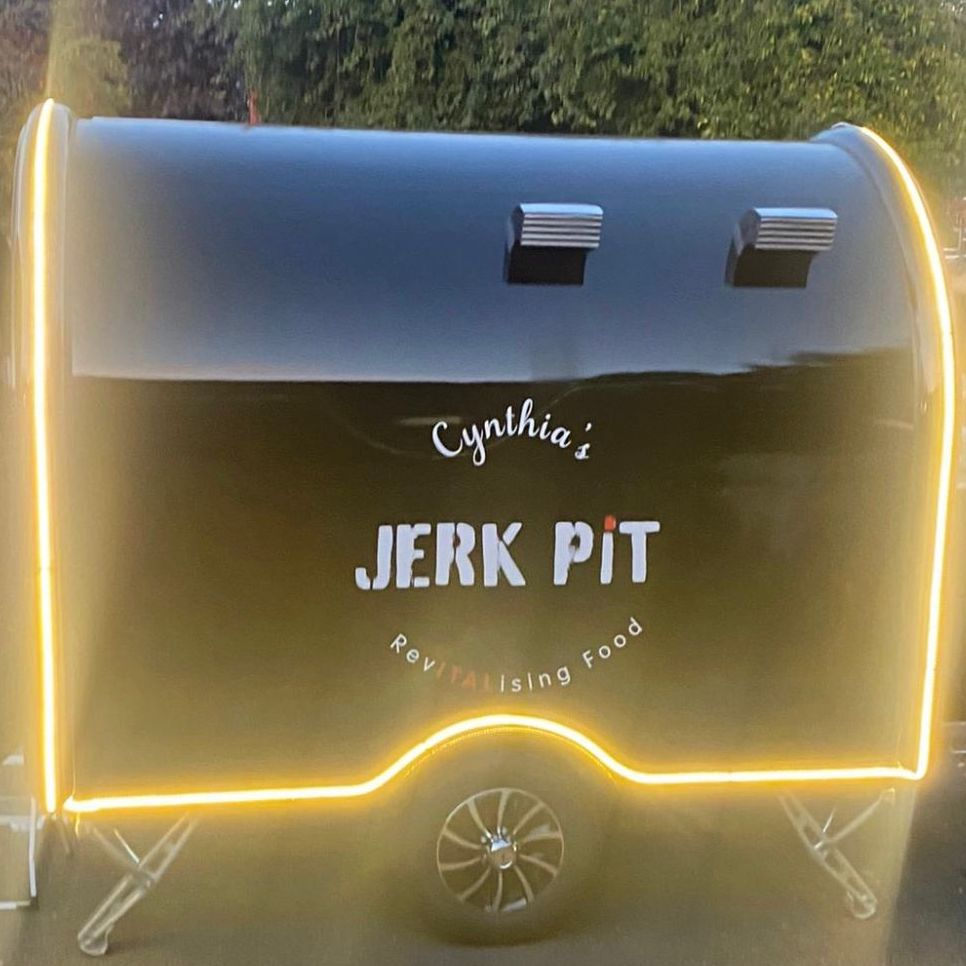
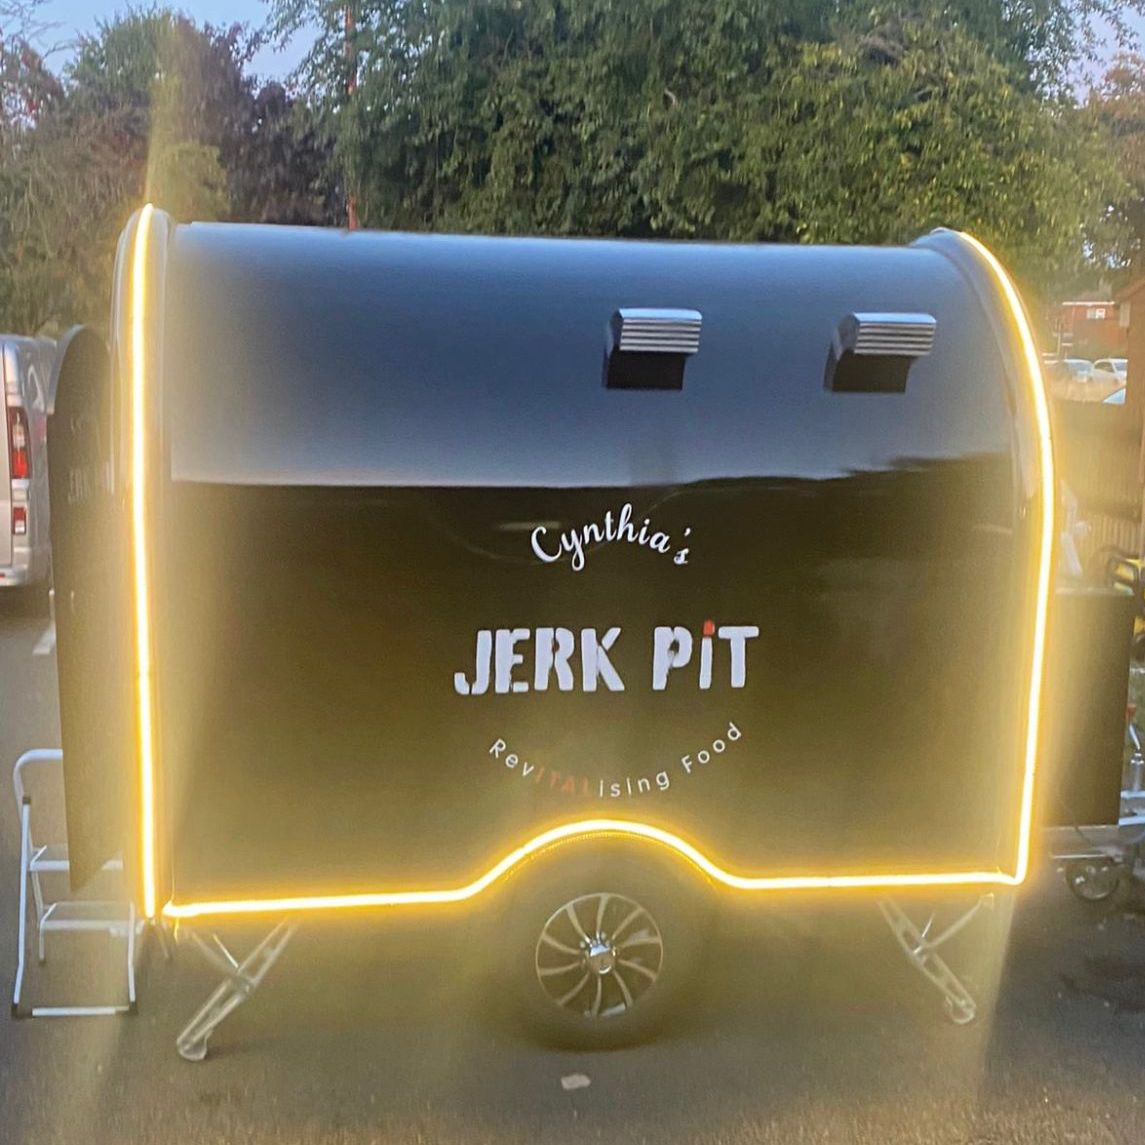
update homepage images

diff --git a/src/containers/Home.js b/src/containers/Home.js
@@ -11,7 +11,7 @@ import trailer1 from "../components/atoms/images/Trailer1.jpg";
 import staffHut from "../components/atoms/images/StaffHut.png";
 import trailerSt from "../components/atoms/images/TrailerSt.jpg";
 import trailerBack from "../components/atoms/images/TrailerBack.jpg";
-import trailerQ from "../components/atoms/images/TrailerQ.jpg";
+import trailerStand from "../components/atoms/images/TrailerStand.jpg";
 import trailerParty from "../components/atoms/images/TrailerParty.jpg";
 
 import { AvatarBadge } from "../components/atoms/Avatar";
@@ -72,8 +72,8 @@ export const Home = () => {
       >
         <Grid item xs={12} md={4} mt={2}>
           <img
-            alt={"trailer"}
-            src={trailer}
+            alt={"trailerBack"}
+            src={trailerBack}
             width="80%"
             className="about-image"
           />
@@ -111,7 +111,12 @@ export const Home = () => {
       >
         <Grid item xs={12} md={3} mt={2}>
           <figure className="event-figure">
-            <img alt={"staffHut"} src={staffHut} width="100%" height="100%" />
+            <img
+              alt={"trailerStand"}
+              src={trailerStand}
+              width="100%"
+              height="100%"
+            />
             <figcaption
               className="image-bar"
               sx={{
@@ -167,12 +172,7 @@ export const Home = () => {
 
         <Grid item xs={12} md={3} mt={2}>
           <figure className="event-figure">
-            <img
-              alt={"trailerBack"}
-              src={trailerBack}
-              width="100%"
-              height="100%"
-            />
+            <img alt={"staffHut"} src={staffHut} width="100%" height="100%" />
             <figcaption
               className="image-bar"
               sx={{
